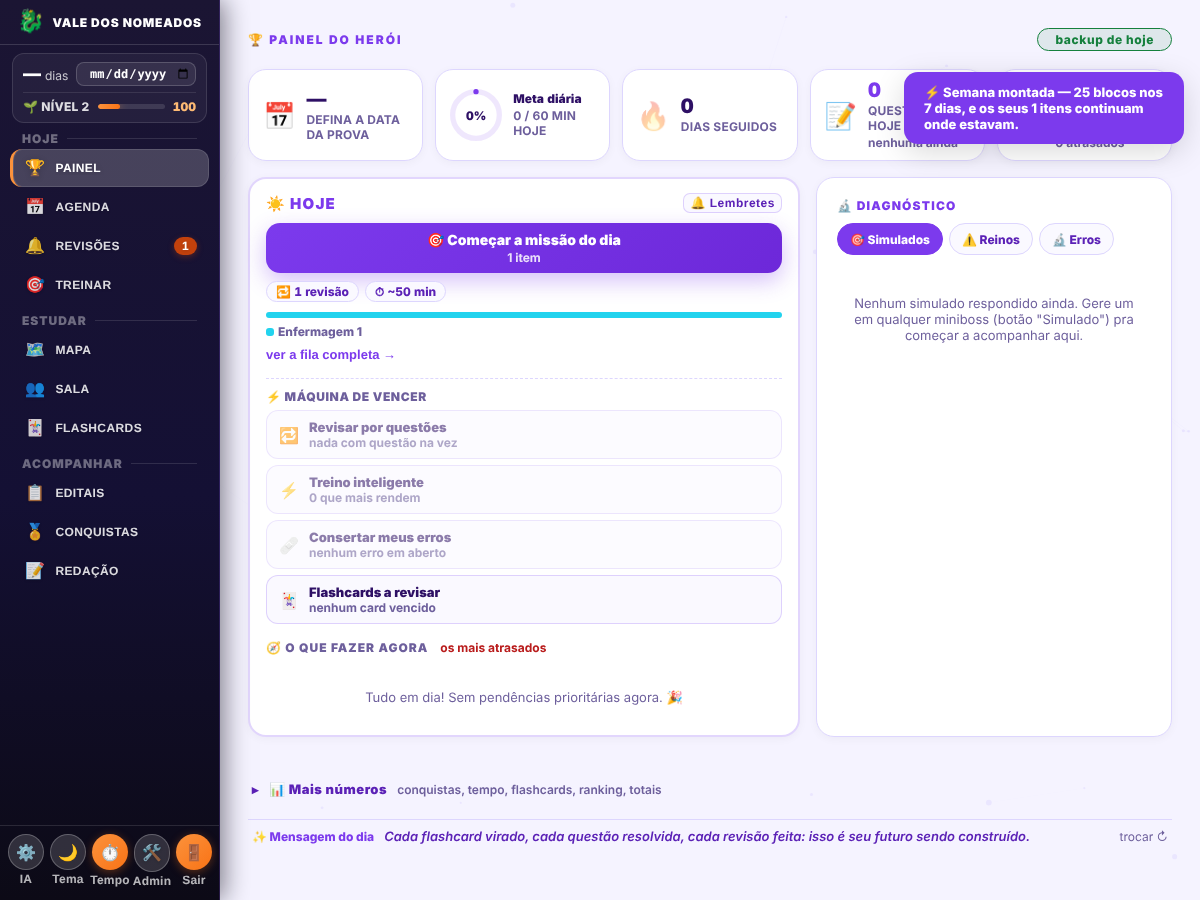
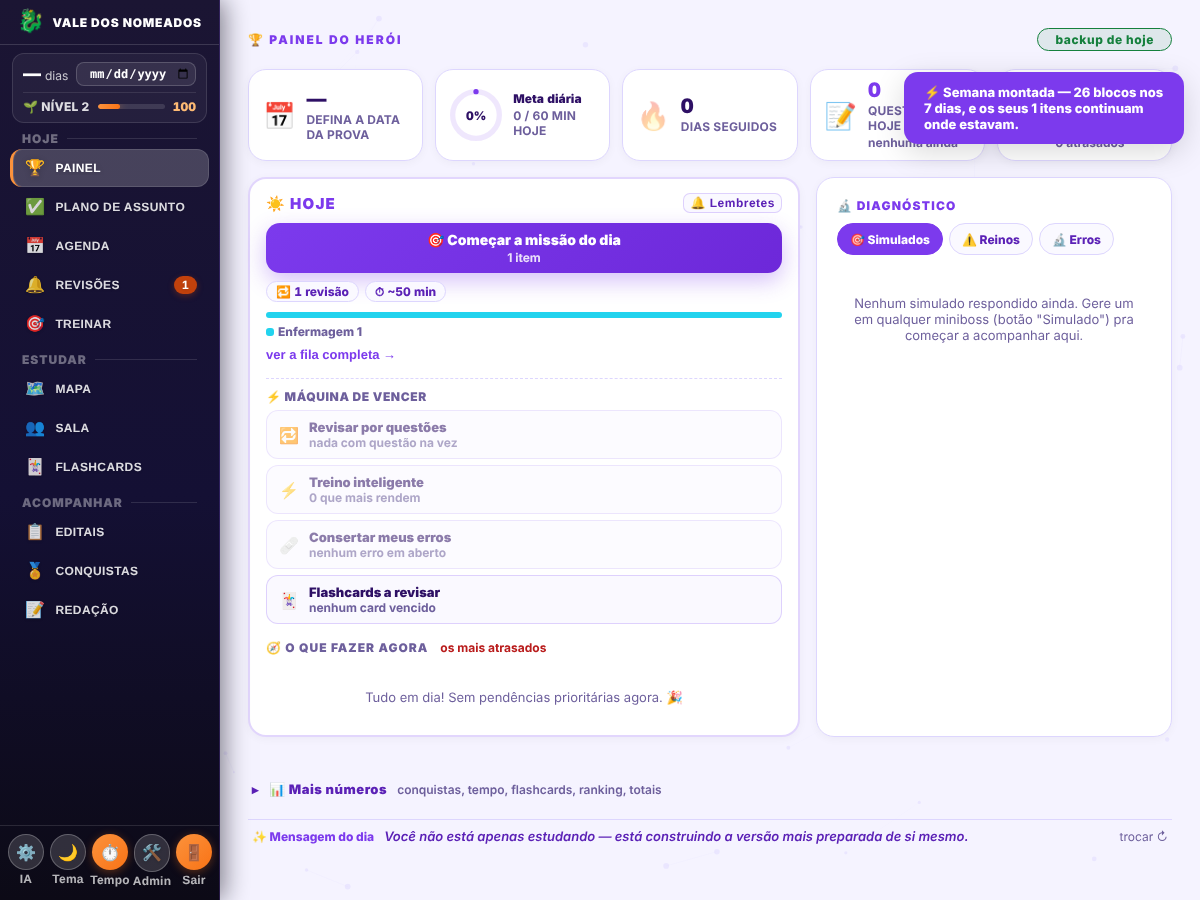
Agenda desligada (sem peso) e Plano de assunto: lista de assuntos com 'ja estudei'
Claude-Session: https://claude.ai/code/session_013TKqU7wJBLrD1bN3KoEd6Q

diff --git a/docs/cronograma/README.md b/docs/cronograma/README.md
@@ -118,3 +118,7 @@ Cartão dentro de Treinar: **1)** escolhe Mundo › Chefe › minibosses (ou tod
 - **Gravação em fila e protegida.** As gravações passam por uma fila (uma de cada vez, sempre com o estado mais novo da memória) e **nada grava antes do banco carregar** (o pedido fica marcado e grava depois, com tudo junto). Ao esconder a aba, grava o que estava marcado.
 - **Carregamento adiado.** O banco carrega quando o navegador está livre (no máximo 2,5 s depois da primeira tela) ou na hora, se você abrir Treinar, Provas, Acervo, Dicas, Flashcards, Revisões ou Editais antes disso (mostra "Carregando seu banco de questões…" e abre em seguida).
 - Limitação: um aparelho com versão antiga do app que gravar no nó antigo depois da migração não é visto pelos aparelhos novos (a versão nova passa a ler só o pacote).
+
+### Agenda desligada e Plano de assunto
+- **Agenda desligada** (junto com Sala e Redação, em `RECURSOS_DESLIGADOS`): some do menu, `showScreen('agenda')` volta ao Painel, o card da agenda some do Painel e `renderWeeklyPlan` não monta mais nada (cronograma, grade e plano por edital não são calculados). **Nada foi apagado**: `db.cronograma`, `db.agendaPlanos`, `db.weeklyPlan`, blocos e pinos continuam guardados. Para religar: tirar `'agenda'` da lista ou abrir o app com `?ligar=agenda`.
+- **Plano de assunto** (menu HOJE → ✅ Plano de assunto; no celular fica em "Mais"): lista Mundo › Chefe › assuntos (minibosses), cada um com uma caixinha "já estudei". Clicar marca (guarda a data, mostra dd/mm); clicar de novo desmarca. Por chefe: "Marcar todos" e "Limpar" (com confirmação). Resumo no topo (X de Y e %), por mundo, busca e "só os que faltam". É **só um registro**: não gera revisão, XP nem altera o Mapa. Guardado em `db.planoAssunto` (`{idDoAssunto: 'AAAA-MM-DD'}`); assuntos apagados do Mapa não contam.
